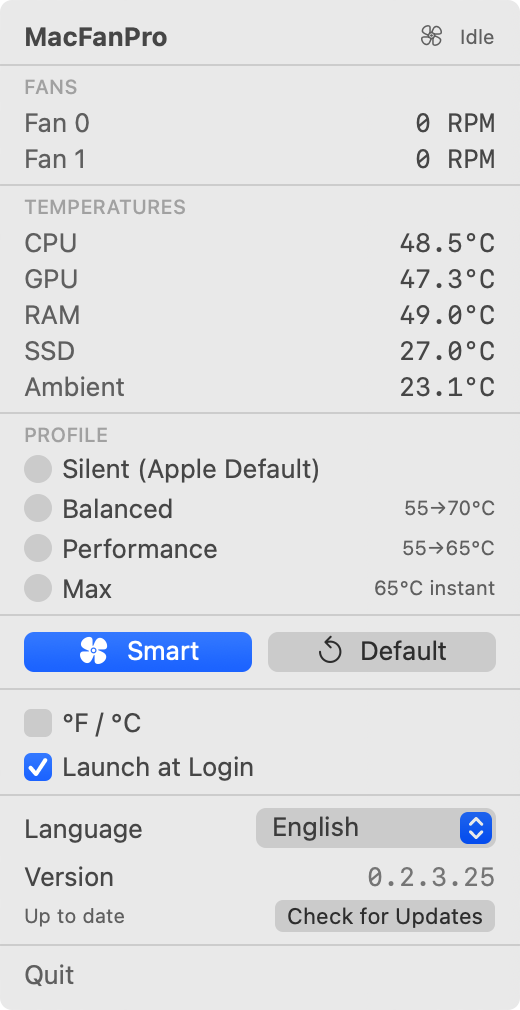
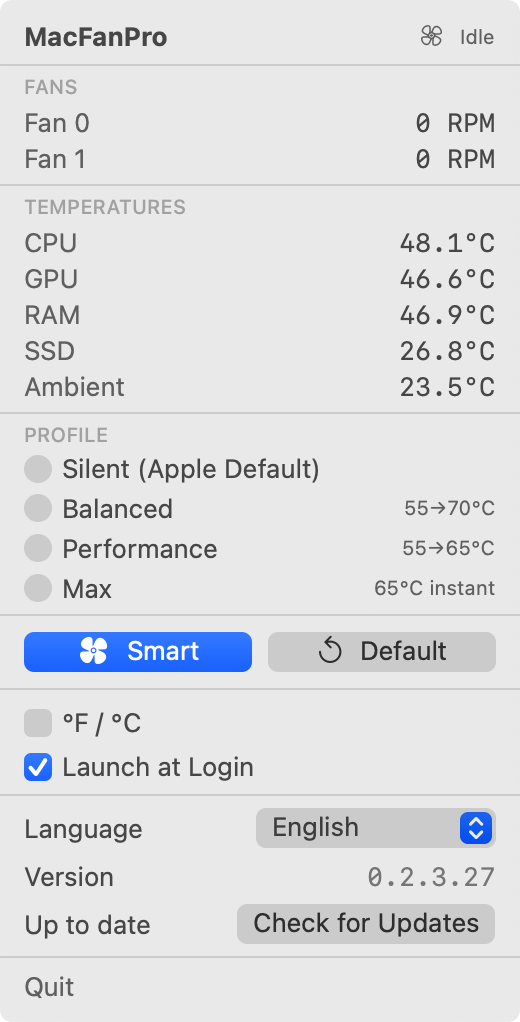
docs: record 0.2.3.27 release acceptance and refresh README screenshots

diff --git a/docs/macfanpro-0.2.3.27-validation.md b/docs/macfanpro-0.2.3.27-validation.md
@@ -14,4 +14,12 @@
 
 ## 公开发行
 
-待发行包验收后填写。
+- 首次为 `v0.2.3.27` 打的标签（`293165a`，按钮在英文下配短文案）在发布前被替换：其草稿未公开、Homebrew 未指向，删除草稿与标签后改为自动换行方案，重新打标签。
+- 发行源提交：`fe87102`，标签 `v0.2.3.27`。[源码 CI](https://github.com/macfanpro/macfanpro/actions/runs/36525683667)、[发行 CI](https://github.com/macfanpro/macfanpro/actions/runs/36525687079) 通过。
[1 lines of base64/hex data omitted]
+- 安装下载产物后，二进制与发行包逐字节一致，实际按下“检查更新”显示“已是最新版本”。
+- Homebrew 从 0.2.3.26 升级到 0.2.3.27，`brew test` 通过；同步后三者版本均为 0.2.3.27，无版本不一致提示，Smart 模式保留。
+
+## README 截图
+
+README 的英文与简体中文截图来自本机经 Homebrew 安装的 0.2.3.27 菜单面板，按窗口截取（520×1022 像素），两张都在按下“检查更新”后截取。英文截图临时将语言设为 English，截取后已恢复为“跟随系统”。

diff --git a/docs/releases/0.2.3.27.md b/docs/releases/0.2.3.27.md
@@ -26,8 +26,8 @@
 
 ## 验证与限制
 
-- 自动化验证：待 CI 完成后填写。
-- 本机验证：待发行包验收后填写。
+- 自动化验证：[源码 CI](https://github.com/macfanpro/macfanpro/actions/runs/36525683667) 与 [发行 CI](https://github.com/macfanpro/macfanpro/actions/runs/36525687079) 通过（Debug、Release 各 147 项测试，打包与语言资源检查）。
+- 本机验证：M4 Max MacBook Pro、macOS 27.0。三种语言的界面渲染核对，英文较长结果换行后完整显示；下载本版发行包核对 SHA-256 与严格签名后安装，应用与后台服务版本一致、二进制与发行包一致，实际按下“检查更新”显示正确结果。
 - 签名与公证：发行包使用 ad-hoc 签名，尚未经过 Apple 公证。只在 M4 Max 上实测。
 - 验证记录：[0.2.3.27 验证记录](https://github.com/macfanpro/macfanpro/blob/main/docs/macfanpro-0.2.3.27-validation.md)
 
